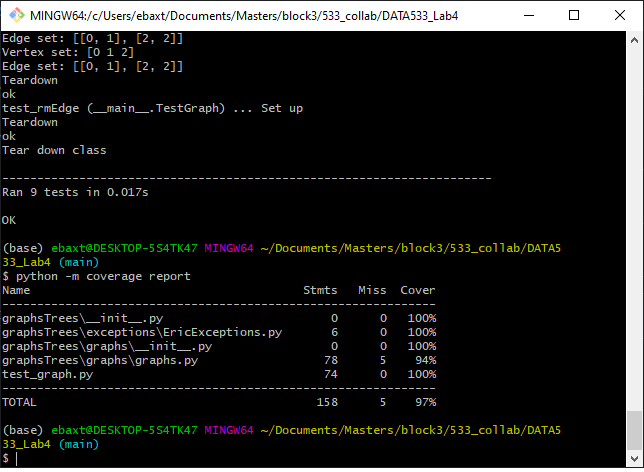
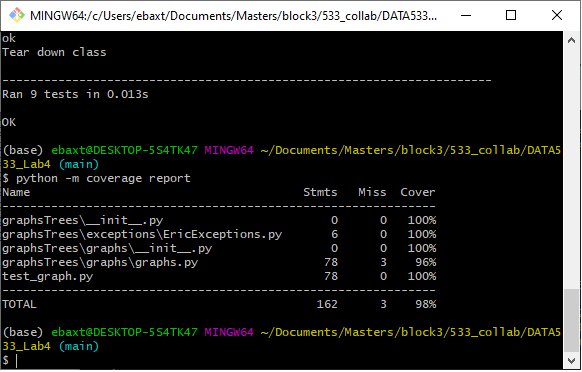
Fixed a mistake in test_graph and redid coverage

Changed region(s): [[0.0, 0.0, 1.0, 1.0], [0.7113, 0.7984, 0.7732, 0.828]]

diff --git a/.ipynb_checkpoints/test_graph-checkpoint.py b/.ipynb_checkpoints/test_graph-checkpoint.py
@@ -49,6 +49,8 @@ class TestGraph(unittest.TestCase):
         # Failed additions
         self.assertEqual(self.Gr2.addEdge(1,2), 'Edge already in edge set')
         self.assertEqual(self.Gr3.addEdge(5,7), 'Input valid vertices')
+        with pytest.raises(vertexError):
+            self.Gr3.addEdge('kevin', 'samantha')
         
     def test_printGraph(self):
         # I know this test is pointless, but the function is very obviously functional
@@ -63,6 +65,8 @@ class TestGraph(unittest.TestCase):
         self.assertEqual(self.Gr1.edges, [[1,2], [3,4], [4,1],[0,3]])
         self.assertEqual(self.Gr3.edges, [[0,1],[0,2]])
         self.assertEqual(self.Gr3.rmEdge(1,1), 'Edge not in edge set')
+        with pytest.raises(vertexError):
+            self.Gr1.rmEdge('fish', 'ducks')
         
     # Pretty pointless to test this more than once    
     def test_addVertex(self):

diff --git a/test_graph.py b/test_graph.py
@@ -49,6 +49,8 @@ class TestGraph(unittest.TestCase):
         # Failed additions
         self.assertEqual(self.Gr2.addEdge(1,2), 'Edge already in edge set')
         self.assertEqual(self.Gr3.addEdge(5,7), 'Input valid vertices')
+        with pytest.raises(vertexError):
+            self.Gr3.addEdge('kevin', 'samantha')
         
     def test_printGraph(self):
         # I know this test is pointless, but the function is very obviously functional
@@ -63,6 +65,8 @@ class TestGraph(unittest.TestCase):
         self.assertEqual(self.Gr1.edges, [[1,2], [3,4], [4,1],[0,3]])
         self.assertEqual(self.Gr3.edges, [[0,1],[0,2]])
         self.assertEqual(self.Gr3.rmEdge(1,1), 'Edge not in edge set')
+        with pytest.raises(vertexError):
+            self.Gr1.rmEdge('fish', 'ducks')
         
     # Pretty pointless to test this more than once    
     def test_addVertex(self):
